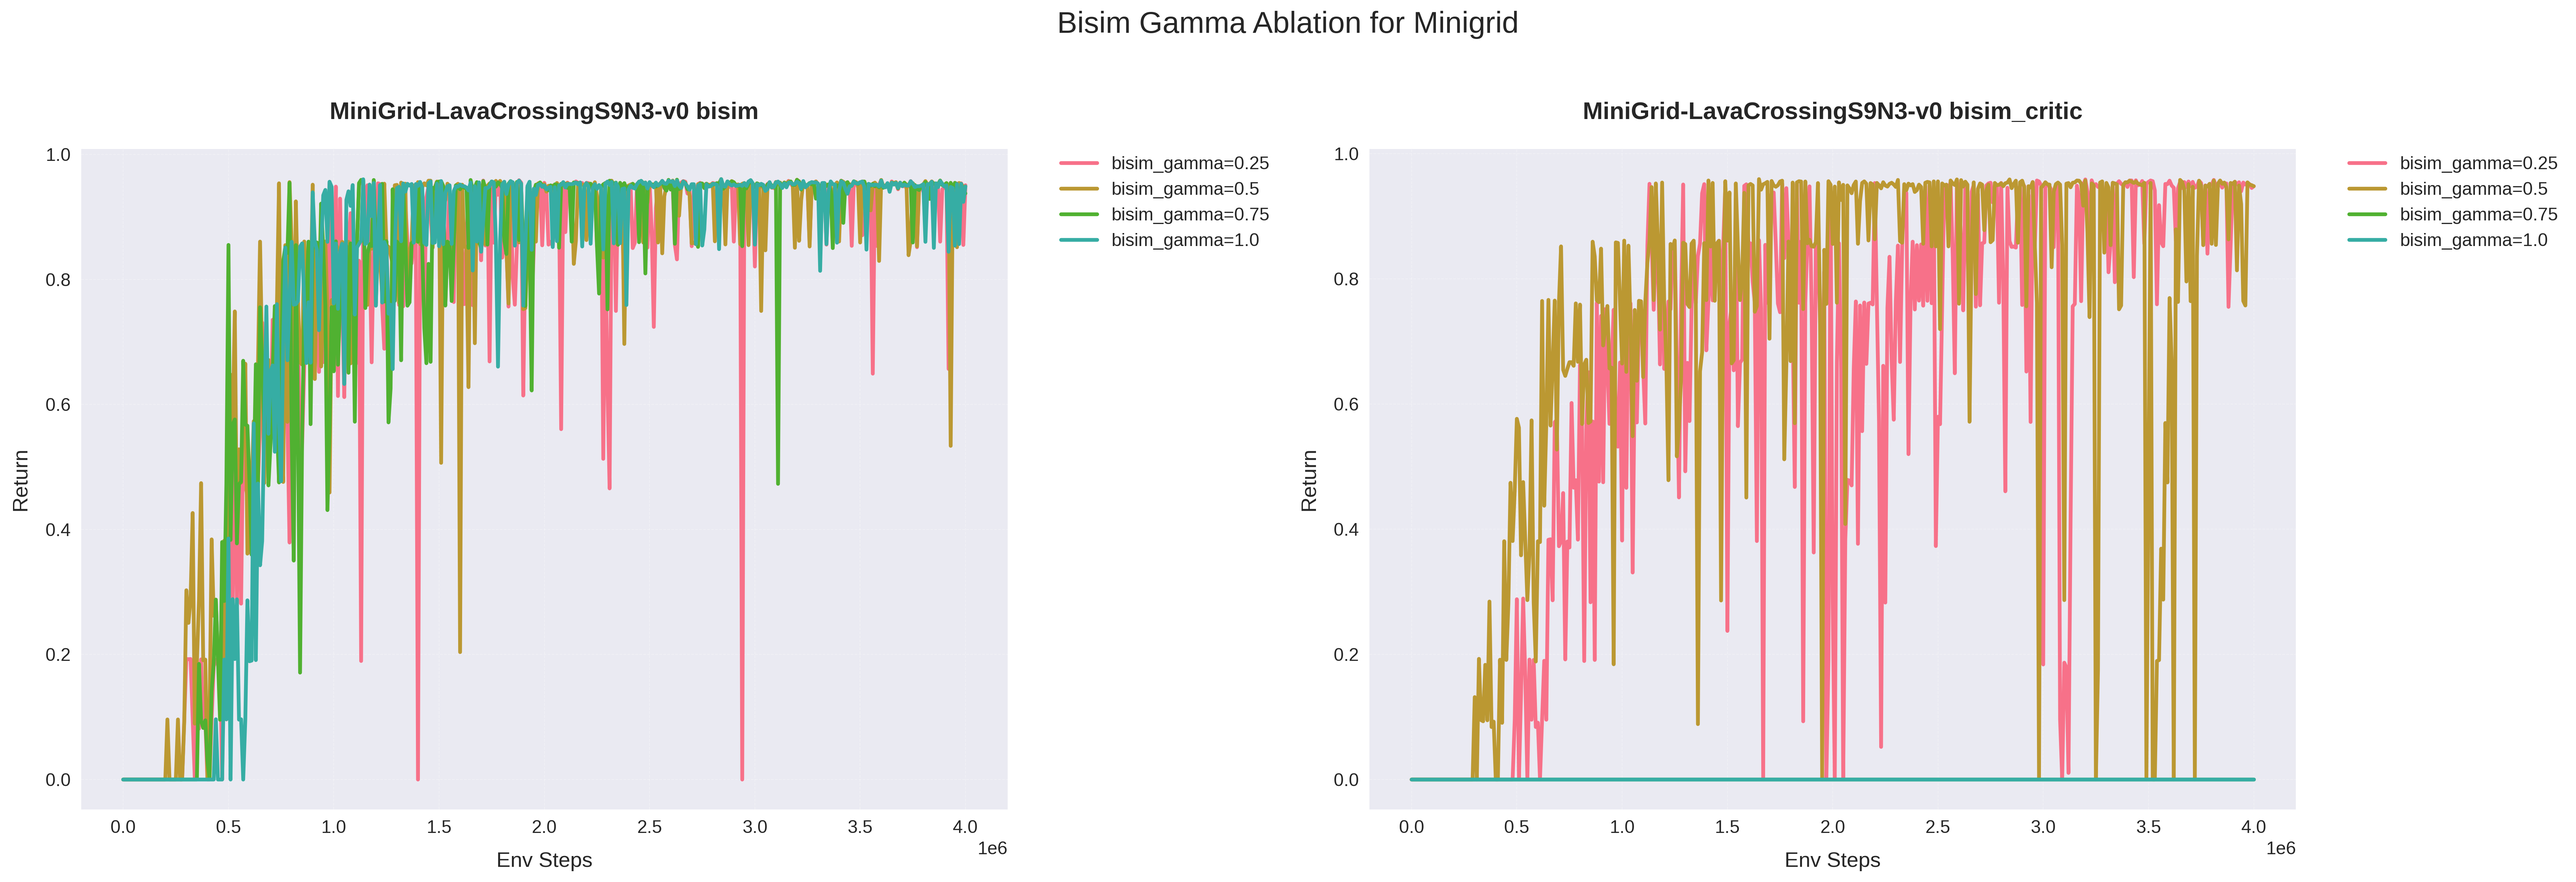
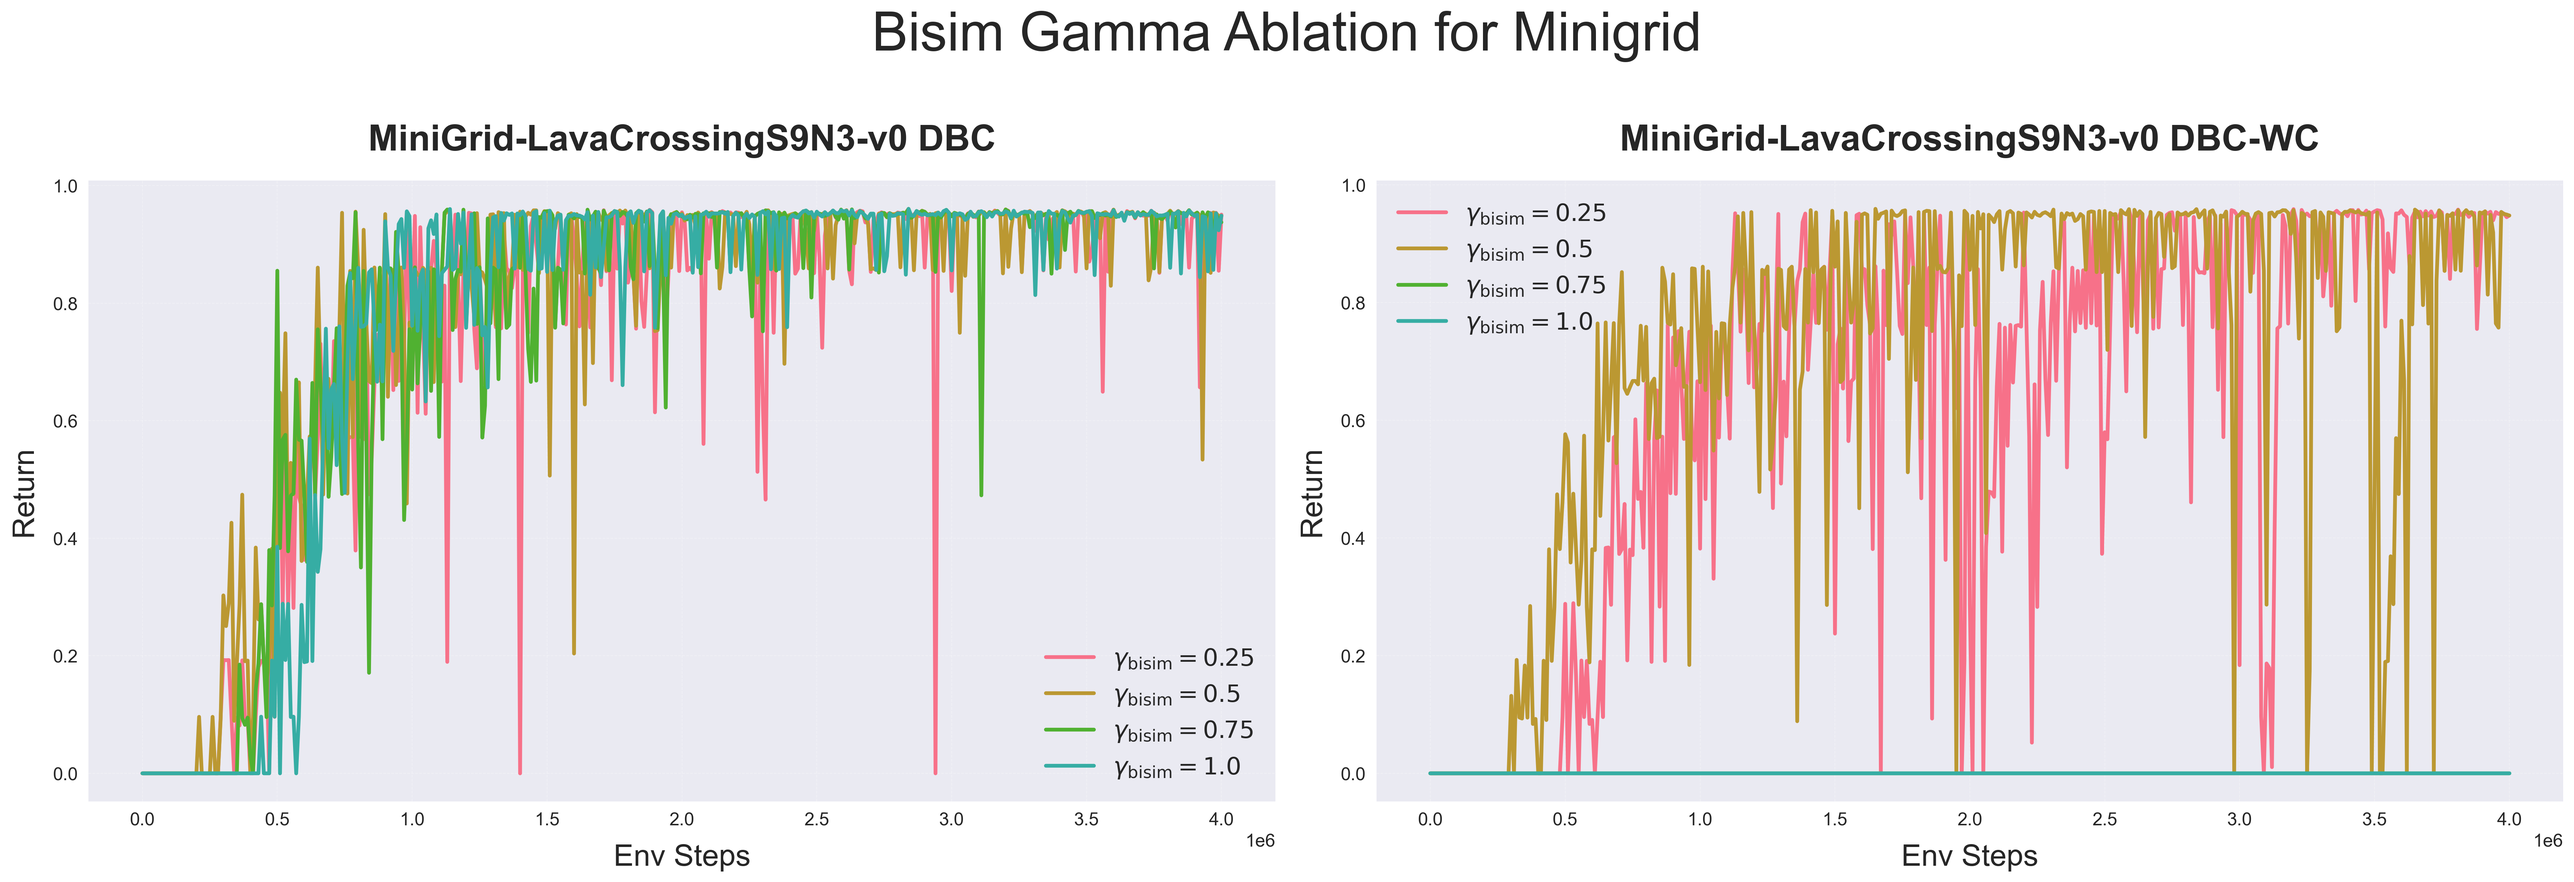
better plots

diff --git a/pretty_plot_all.py b/pretty_plot_all.py
@@ -33,8 +33,22 @@ FIG_WIDTH = 12
 FIG_HEIGHT = 8
 DPI = 300
 
-mujoco_auxs = ["l2", "rkl", "bisim", "bisim_critic", "zp_critic"]
-minigrid_auxs = ["ZP", "bisim", "bisim_critic", "zp_critic"]
+aux_pretty_names = {
+    "l2": "ZP-L2",
+    "rkl": "ZP-RKL",
+    "bisim": "DBC",
+    "bisim_critic": "DBC-WC",
+    "zp_critic": "ZP-WC",
+    "ZP": "ZP-L2",
+}
+distractor_pretty_names = {
+    "none": "None",
+    "gaussian": "Gaussian",
+    "interleaved_gaussian_mixture": "Interleaved Gaussian Mixture",
+}
+
+mujoco_auxs = ["l2", "rkl", "bisim", "zp_critic", "bisim_critic"]
+minigrid_auxs = ["ZP", "bisim", "zp_critic", "bisim_critic"]
 
 token_mujoco_env = "HalfCheetah-v2"
 token_minigrid_env = "MiniGrid-LavaCrossingS9N3-v0"
@@ -42,13 +56,14 @@ token_minigrid_env = "MiniGrid-LavaCrossingS9N3-v0"
 
 def style_plot(ax, title, xlabel="Env Steps", ylabel="Return"):
     """Helper function to consistently style plots"""
-    ax.set_title(title, pad=20, fontweight="bold")
-    ax.set_xlabel(xlabel, labelpad=10)
-    ax.set_ylabel(ylabel, labelpad=10)
+    ax.set_title(title, pad=20, fontweight="bold", fontsize=24)
+    ax.set_xlabel(xlabel, labelpad=10, fontsize=20)
+    ax.set_ylabel(ylabel, labelpad=10, fontsize=20)
     ax.grid(True, alpha=0.3)
     ax.spines["top"].set_visible(False)
     ax.spines["right"].set_visible(False)
-    ax.legend(bbox_to_anchor=(1.05, 1), loc="upper left", borderaxespad=0.0)
+    # ax.legend(bbox_to_anchor=(1.05, 1), loc="upper left", borderaxespad=0.0)
+    ax.legend(loc="best", fontsize=16)
     ax.grid(True, linestyle="--", alpha=0.3)
 
 
@@ -83,7 +98,8 @@ def plot_results(envs, results, auxs, plot_title, filename):
                 env_steps = df["env_steps"][valid_idxs]
                 rewards = df["return"][valid_idxs]
 
-                label = aux if len(results[env][aux]) == 1 else f"{aux} {exp_idx}"
+                pretty_aux = aux_pretty_names[aux]
+                label = pretty_aux if len(results[env][aux]) == 1 else f"{pretty_aux} {exp_idx}"
                 ax.plot(env_steps, rewards, label=label)
                 legend_labels.append(label)
 
@@ -92,7 +108,7 @@ def plot_results(envs, results, auxs, plot_title, filename):
     for idx in range(len(envs), len(axes)):
         axes[idx].set_visible(False)
 
-    plt.suptitle(plot_title, fontsize=20, y=1.02)
+    plt.suptitle(plot_title, fontsize=36, y=1.02)
     plt.tight_layout()
     plt.savefig(filename, dpi=DPI, bbox_inches="tight")
     plt.close()
@@ -106,6 +122,7 @@ def plot_ablation(
     param_values,
     baseline_value,
     param_name,
+    latex_param_name,
     plot_title,
     filename,
 ):
@@ -135,11 +152,11 @@ def plot_ablation(
             env_steps = df["env_steps"][valid_idxs]
             rewards = df["return"][valid_idxs]
 
-            ax.plot(env_steps, rewards, label=f"{param_name}={param_value}")
+            ax.plot(env_steps, rewards, label=f"${latex_param_name}={param_value}$")
 
-        style_plot(ax, f"{token_env} {aux}")
+        style_plot(ax, f"{token_env} {aux_pretty_names[aux]}")
 
-    plt.suptitle(plot_title, fontsize=20, y=1.02)
+    plt.suptitle(plot_title, fontsize=36, y=1.02)
     plt.tight_layout()
     plt.savefig(filename, dpi=DPI, bbox_inches="tight")
     plt.close()
@@ -236,6 +253,7 @@ plot_ablation(
     bisim_gammas,
     baseline_bisim_gamma,
     "bisim_gamma",
+    "\gamma_{\mathrm{bisim}}",
     "Bisim Gamma Ablation for Mujoco",
     "./plots/bisim_gamma_mujoco_ablation.png",
 )
@@ -252,6 +270,7 @@ plot_ablation(
     bisim_gammas,
     baseline_bisim_gamma,
     "bisim_gamma",
+    "\gamma_{\mathrm{bisim}}",
     "Bisim Gamma Ablation for Minigrid",
     "./plots/bisim_gamma_minigrid_ablation.png",
 )
@@ -272,6 +291,7 @@ plot_ablation(
     wass_critic_train_steps_all,
     baseline_wass_critic_train_steps,
     "wass_critic_train_steps",
+    "N_{\mathrm{critic}}",
     "Wass Critic Train Steps Ablation for Mujoco",
     "./plots/wass_critic_train_steps_mujoco_ablation.png",
 )
@@ -288,6 +308,7 @@ plot_ablation(
     wass_critic_train_steps_all,
     baseline_wass_critic_train_steps,
     "wass_critic_train_steps",
+    "N_{\mathrm{critic}}",
     "Wass Critic Train Steps Ablation for Minigrid",
     "./plots/wass_critic_train_steps_minigrid_ablation.png",
 )
@@ -324,11 +345,11 @@ for aux in mujoco_auxs:
         env_steps = df["env_steps"][valid_idxs]
         rewards = df["return"][valid_idxs]
 
-        ax.plot(env_steps, rewards, label=distractor)
+        ax.plot(env_steps, rewards, label=distractor_pretty_names[distractor])
 
-    style_plot(ax, f"{token_mujoco_env} {aux}")
+    style_plot(ax, f"{token_mujoco_env} {aux_pretty_names[aux]}")
 
-plt.suptitle("Distractors Ablation for Mujoco", fontsize=20, y=1.02)
+plt.suptitle("Distractors for Mujoco", fontsize=36, y=1.02)
 plt.tight_layout()
 plt.savefig("./plots/distractors_mujoco.png", dpi=DPI, bbox_inches="tight")
 plt.close()
